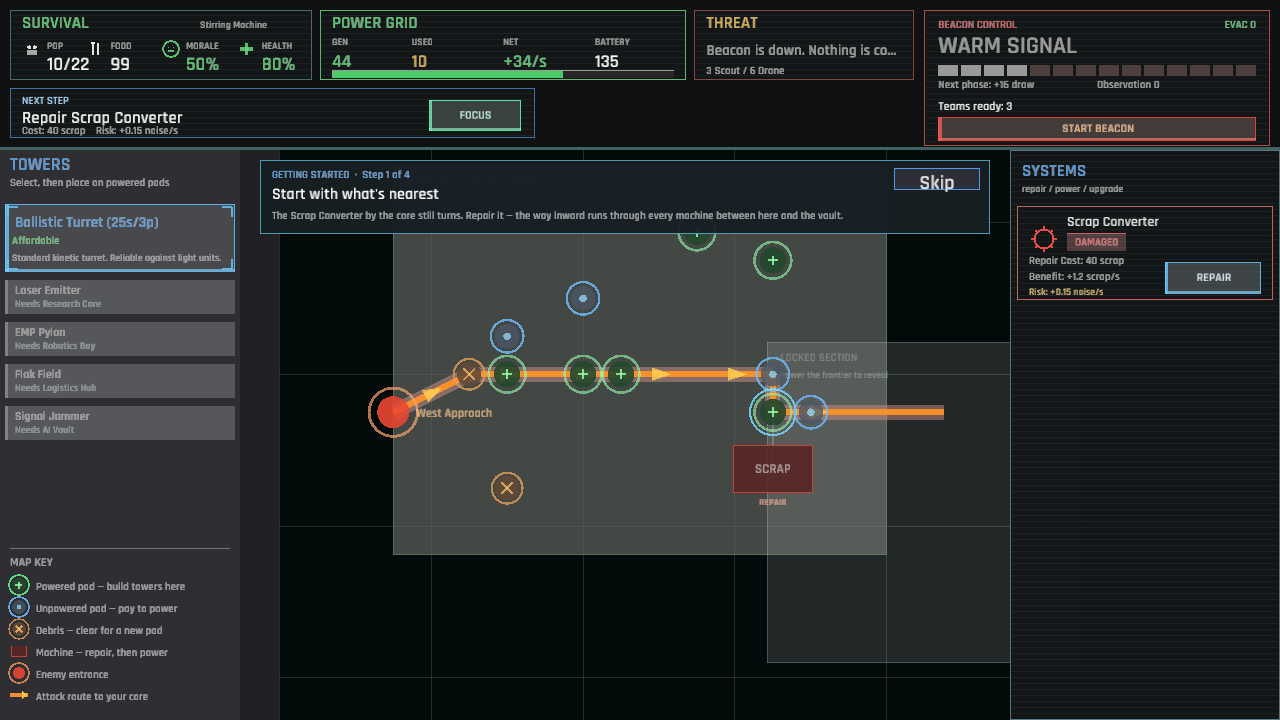
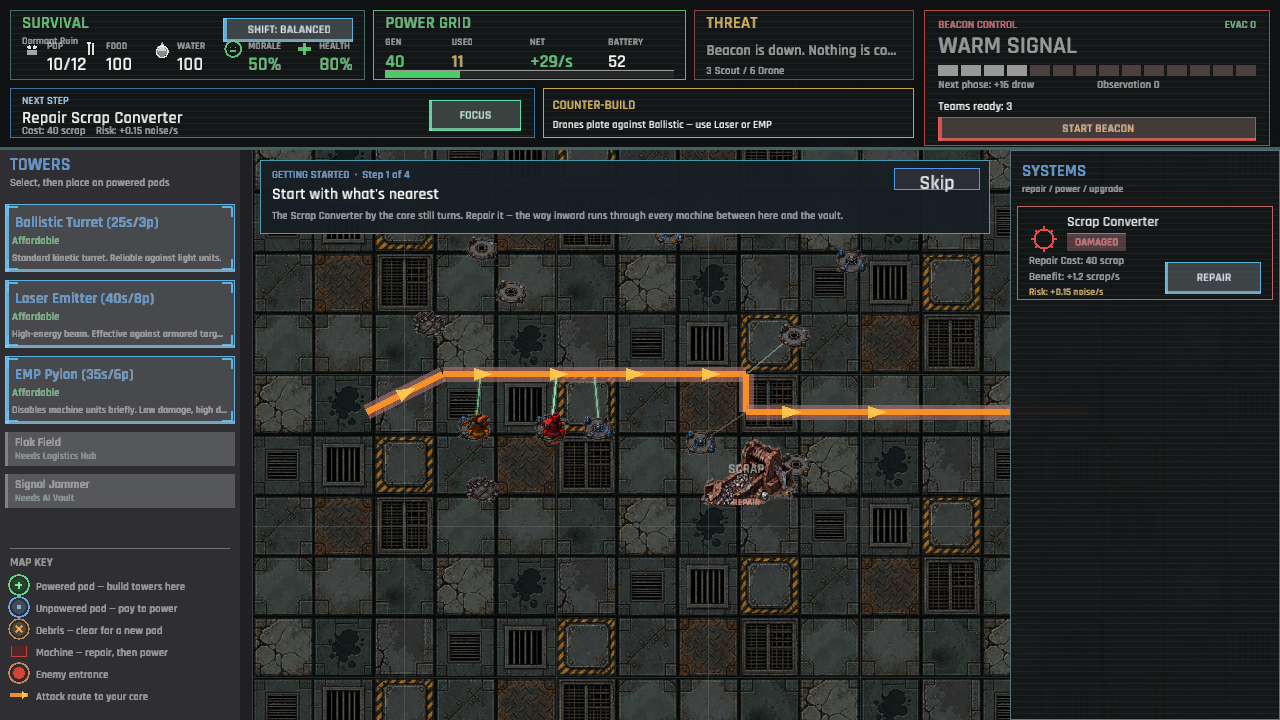
Two old sentries wake before the first alarm (opening defense and headless validation)
A fresh commander was pushed to spend most starting scrap on infrastructure and then defend with one tower family, while six gameplay tests could not reach their assertions because construction uploaded textures without a GPU context. Fresh campaigns now inherit a Ballistic Turret and Laser Emitter with complementary targeting, unlock EMP as an immediate third choice, and teach the visible mixed-defense action. GPU assets are optional only in test builds, allowing the complete 42-test simulation suite to run headlessly; the survival proof now establishes water support, uses the defense shift, and reaches wave ten under the real combat balance.

diff --git a/src/state/gameplay/mod.rs b/src/state/gameplay/mod.rs
@@ -17,7 +17,7 @@ use crate::engine::factory::Factory;
 use crate::engine::map::MapState;
 use crate::engine::population::{Population, WorkforcePolicy};
 use crate::engine::threat::{ReactionTier, ThreatSignature};
-use crate::engine::tower::{ShotEffect, Tower};
+use crate::engine::tower::{ShotEffect, TargetPriority, Tower};
 use crate::engine::vault::VaultTakeover;
 use crate::engine::wave::{WaveManager, WaveTuning};
 use crate::save::{
@@ -29,7 +29,7 @@ use macroquad::prelude::{vec2, Vec2};
 use macroquad_toolkit::camera::{Camera2D as ToolkitCamera2D, Camera2DConfig, CameraBounds};
 
 pub struct GameplayState {
-    pub assets: GameplayAssets,
+    pub assets: Option<GameplayAssets>,
     pub constants: GameConstants,
     pub factory: Factory,
     pub wave_manager: WaveManager,
@@ -230,7 +230,7 @@ impl GameplayState {
         };
         let autosave_enabled = settings.autosave;
 
-        Self {
+        let mut state = Self {
             assets: GameplayAssets::load(),
             constants,
             factory,
@@ -357,6 +357,46 @@ impl GameplayState {
                     ..Default::default()
                 },
             ),
+        };
+        state.seed_starting_defense(data);
+        state
+    }
+
+    fn seed_starting_defense(&mut self, data: &GameData) {
+        for (tower_id, slot_id, priority) in [
+            ("ballistic_turret", "slot_01", TargetPriority::First),
+            ("laser_emitter", "slot_02", TargetPriority::Strongest),
+        ] {
+            let Some(def) = data.tower_def_by_id(tower_id) else {
+                continue;
+            };
+            let Some(slot_idx) = self
+                .map_state
+                .slots
+                .iter()
+                .position(|slot| slot.id == slot_id)
+            else {
+                continue;
+            };
+            if self.map_state.slots[slot_idx].tower_index.is_some() {
+                continue;
+            }
+            let mut tower = Tower::new(
+                def.tower_type.clone(),
+                def.id.clone(),
+                self.map_state.slots[slot_idx].position,
+                def.base_range,
+                def.base_damage,
+                def.fire_rate,
+                def.cost_power,
+                def.cost_scrap,
+                def.color(),
+            );
+            tower.target_priority = priority;
+            let tower_idx = self.towers.len();
+            self.towers.push(tower);
+            self.tower_stats.push(TowerUiStats::default());
+            self.map_state.slots[slot_idx].tower_index = Some(tower_idx);
         }
     }
 
@@ -627,3 +667,6 @@ impl GameplayState {
         let _ = self.build_save_data().save();
     }
 }
+
+#[cfg(test)]
+mod tests;

diff --git a/src/state/gameplay/render_map/circuit_board.rs b/src/state/gameplay/render_map/circuit_board.rs
@@ -21,7 +21,11 @@ impl GameplayState {
                 let variant =
                     FLOOR_VARIANTS[((x / 64 + y / 64 * 3) as usize) % FLOOR_VARIANTS.len()];
                 draw_texture_ex(
-                    &self.assets.tiles,
+                    &self
+                        .assets
+                        .as_ref()
+                        .expect("rendering requires gameplay assets")
+                        .tiles,
                     x as f32,
                     y as f32,
                     WHITE,
@@ -208,7 +212,11 @@ impl GameplayState {
             let _hovered = hovered_slot == Some(idx);
             let pad = slot.position;
             draw_slot_pad(
-                &self.assets.pads,
+                &self
+                    .assets
+                    .as_ref()
+                    .expect("rendering requires gameplay assets")
+                    .pads,
                 pad,
                 slot.state,
                 slot.opens_entrance.is_some(),
@@ -251,7 +259,11 @@ impl GameplayState {
                 vec2(76.0, 58.0)
             };
             draw_frame(
-                &self.assets.machines[machine_index(&building.building_type)],
+                &self
+                    .assets
+                    .as_ref()
+                    .expect("rendering requires gameplay assets")
+                    .machines[machine_index(&building.building_type)],
                 frame,
                 vec2(128.0, 96.0),
                 building.position,
@@ -295,7 +307,11 @@ impl GameplayState {
     pub(super) fn draw_factory_core(&self) {
         let core = self.map_state.factory_core;
         draw_frame(
-            &self.assets.core,
+            &self
+                .assets
+                .as_ref()
+                .expect("rendering requires gameplay assets")
+                .core,
             if self
                 .map_state
                 .buildings

diff --git a/src/state/gameplay/update/survival_proof.rs b/src/state/gameplay/update/survival_proof.rs
@@ -3,6 +3,7 @@
 
 use crate::data::GameData;
 use crate::engine::map::SlotState;
+use crate::engine::population::WorkforcePolicy;
 use crate::state::StateTransition;
 
 use super::super::GameplayState;
@@ -18,6 +19,19 @@ impl GameplayState {
         // The proof exercises combat math over the full route; progressive
         // disclosure would truncate enemy paths at the revealed frontier.
         self.map_state.reveal_all_sections();
+        self.population.workforce_policy = WorkforcePolicy::Defense;
+        // Establish the minimum sustainable life-support loop before raising
+        // the beacon. The proof is meant to validate combat balance, not prove
+        // that a scripted commander can ignore the water system indefinitely.
+        if let Some(water_idx) = self
+            .map_state
+            .buildings
+            .iter()
+            .position(|building| building.id == "building_02")
+        {
+            self.repair_building(water_idx);
+            self.power_building(water_idx);
+        }
     }
 
     /// Advance the scripted run by a batch of fixed steps, returning a result
@@ -75,8 +89,6 @@ impl GameplayState {
 
     fn keep_building_survival_proof_defense(&mut self, data: &GameData) {
         const BUILD_PLAN: &[(&str, &str)] = &[
-            ("ballistic_turret", "slot_01"),
-            ("ballistic_turret", "slot_02"),
             ("ballistic_turret", "slot_03"),
             ("ballistic_turret", "slot_04"),
             ("ballistic_turret", "slot_05"),

diff --git a/src/state/gameplay/assets.rs b/src/state/gameplay/assets.rs
@@ -95,6 +95,7 @@ pub struct GameplayAssets {
     pub machines: [Texture2D; 9],
 }
 
+#[cfg(not(test))]
 fn texture(bytes: &[u8]) -> Texture2D {
     let image = Image::from_file_with_format(bytes, Some(ImageFormat::Png))
         .expect("embedded gameplay texture must be valid PNG");
@@ -104,8 +105,9 @@ fn texture(bytes: &[u8]) -> Texture2D {
 }
 
 impl GameplayAssets {
-    pub fn load() -> Self {
-        Self {
+    #[cfg(not(test))]
+    pub fn load() -> Option<Self> {
+        Some(Self {
             tiles: texture(include_bytes!("../../../assets/map/factory_tiles.png")),
             pads: texture(include_bytes!("../../../assets/map/tower_pads.png")),
             core: texture(include_bytes!("../../../assets/buildings/factory_core.png")),
@@ -146,7 +148,15 @@ impl GameplayAssets {
                     "../../../assets/buildings/research_core.png"
                 )),
             ],
-        }
+        })
+    }
+
+    /// Simulation tests do not create a Macroquad graphics context. Keeping
+    /// GPU assets absent there lets them exercise the actual gameplay state
+    /// instead of failing during texture upload before their first assertion.
+    #[cfg(test)]
+    pub fn load() -> Option<Self> {
+        None
     }
 }
 

diff --git a/src/state/gameplay/render_map.rs b/src/state/gameplay/render_map.rs
@@ -49,7 +49,11 @@ impl GameplayState {
             let level = tower.level.saturating_sub(1).min(2) as usize;
             let frame = level * 5 + column;
             draw_frame(
-                &self.assets.towers,
+                &self
+                    .assets
+                    .as_ref()
+                    .expect("rendering requires gameplay assets")
+                    .towers,
                 frame,
                 vec2(64.0, 64.0),
                 tower.position,
@@ -155,7 +159,11 @@ impl GameplayState {
             }
             let frame = ((get_time() * 8.0) as usize) % 4;
             draw_frame(
-                &self.assets.enemies[asset],
+                &self
+                    .assets
+                    .as_ref()
+                    .expect("rendering requires gameplay assets")
+                    .enemies[asset],
                 frame,
                 frame_size,
                 enemy.position,

diff --git a/src/state/gameplay/update/survival_proof/tests.rs b/src/state/gameplay/update/survival_proof/tests.rs
@@ -11,11 +11,14 @@ fn scripted_defense_can_survive_ten_waves() {
             let (dom, dom_val) = state.threat.dominant();
             assert!(
                 summary.shutdown_triggered,
-                "defeat instead of shutdown: wave {}, pop {}, integrity {:.1}, food {:.1}, awareness {:.1}, loudest {} {:.1}",
+                "defeat instead of shutdown: wave {}, pop {}, integrity {:.1}, food {:.1}, water {:.1}, towers {}, scrap {:.1}, awareness {:.1}, loudest {} {:.1}",
                 summary.waves_survived,
                 summary.population_surviving,
                 state.factory_integrity,
                 state.population.food_supply,
+                state.resources.water,
+                state.towers.len(),
+                state.resources.scrap,
                 state.threat.awareness_level(),
                 dom.label(),
                 dom_val,

diff --git a/src/state/gameplay/tests.rs b/src/state/gameplay/tests.rs
@@ -1,0 +1,14 @@
+use super::*;
+
+#[test]
+fn fresh_campaign_starts_with_complementary_sentries_without_spending_scrap() {
+    let data = GameData::load();
+    let state = GameplayState::new(&data);
+
+    assert_eq!(state.resources.scrap, data.constants.starting.scrap);
+    assert_eq!(state.towers.len(), 2);
+    assert_eq!(state.towers[0].tower_id, "ballistic_turret");
+    assert_eq!(state.towers[0].target_priority, TargetPriority::First);
+    assert_eq!(state.towers[1].tower_id, "laser_emitter");
+    assert_eq!(state.towers[1].target_priority, TargetPriority::Strongest);
+}

diff --git a/src/game.rs b/src/game.rs
@@ -69,6 +69,7 @@ impl Game {
                 // Skip the first-run premise card so the capture shows the
                 // actual factory floor instead of a modal.
                 gameplay.show_intro = false;
+                gameplay.coach.active = false;
                 self.state = GameState::Gameplay(gameplay);
             }
             "sector" => {

diff --git a/src/state/gameplay/ui_advice/suggest.rs b/src/state/gameplay/ui_advice/suggest.rs
@@ -81,7 +81,7 @@ impl GameplayState {
             );
         }
 
-        if self.towers.is_empty() {
+        if self.towers.len() < 3 {
             if let Some(def) = data.tower_def_by_id("ballistic_turret") {
                 if self.resources.scrap >= def.cost_scrap {
                     return SuggestedAction {

diff --git a/src/state/gameplay/ui/overlays.rs b/src/state/gameplay/ui/overlays.rs
@@ -229,7 +229,7 @@ impl GameplayState {
                 .buildings
                 .iter()
                 .any(|b| b.state == BuildingState::Powered),
-            2 => !self.towers.is_empty(),
+            2 => self.towers.len() >= 3,
             _ => self.beacon_active,
         };
         if done {

diff --git a/TODO.md b/TODO.md
@@ -19,8 +19,6 @@ What follows is the work the design review left open.
 - Finish the tile-map graphics: replace placeholder icons with proper tile, tower, and
   enemy visuals. The complete production checklist, dimensions, palette, and state
   requirements are in [`docs/TILE_MAP_ASSET_REQUIREMENTS.md`](docs/TILE_MAP_ASSET_REQUIREMENTS.md).
-- Improve the opening balance and tutorial: one starting tower is insufficient, but the
-  tutorial only explains that option. Start with or introduce multiple turrets.
 
 ## Stakes and the meta-loop
 

diff --git a/README.md b/README.md
@@ -11,6 +11,7 @@ You do not tell anyone that you were the lead researcher who unlocked the last A
 ## Gameplay
 
 - Place towers on powered pads to hold attack routes.
+- Begin with a Ballistic Turret and Laser Emitter, then add EMP disruption to the line.
 - Read incoming armor profiles and counter each machine with the right tower family.
 - Set each tower to hunt the closest, leading, strongest, wounded, or fastest threat.
 - Take max-level towers into one of two irreversible final assemblies.
